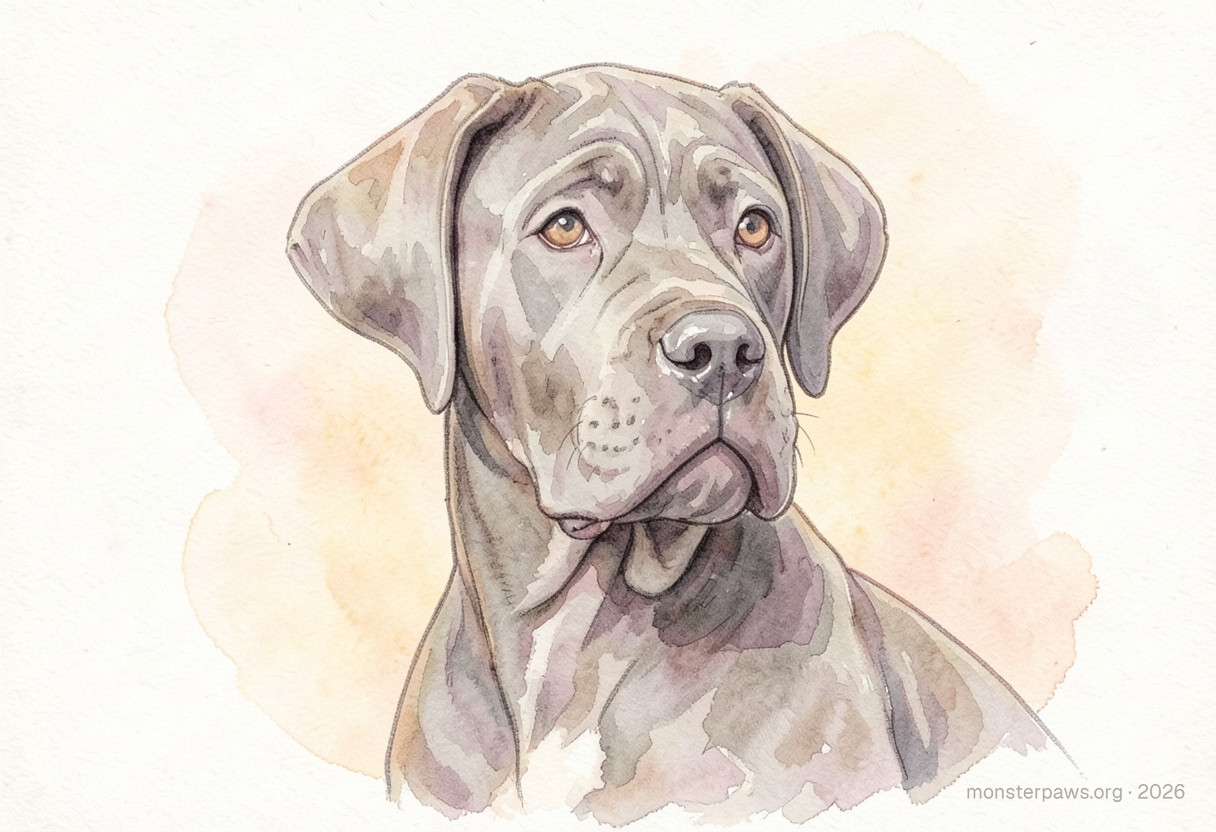
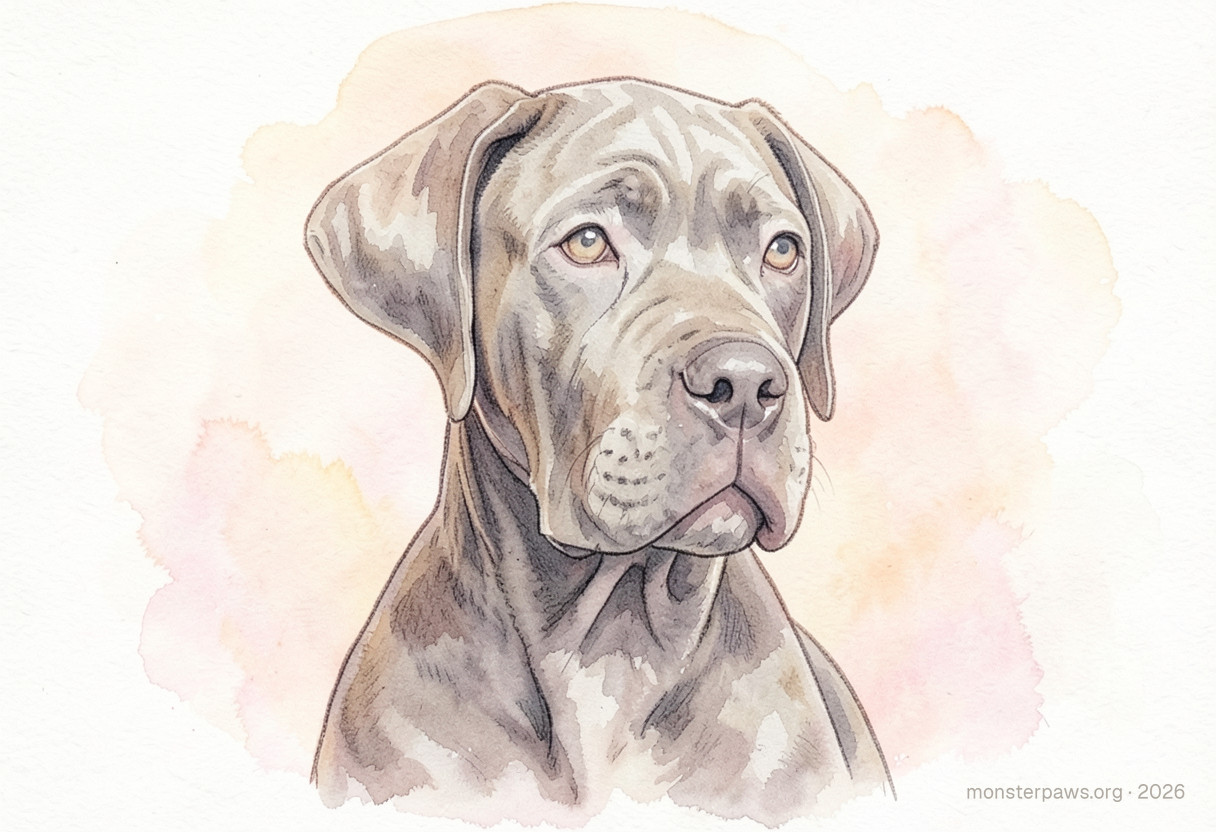
Plum's crew painting is replaced with Logan's new pick, batch 38g, 011, made without the photo that was withdrawn (ADR-0004 as amended 2026-11-03). klein-v1 as painted, three-quarter view, collarless, 1216×832; re-encoded from pixels alone to public/brand/crew/plum-painting.jpg, with the mark alread

diff --git a/doc/roadmap.md b/doc/roadmap.md
@@ -21,7 +21,7 @@ slice or change build order.
 | **The anatomy LoRA** | 9, pulled forward (ADR-0004 as amended 2026-10-22) | The Qwen-Image-Edit cleanup ran 2026-10-23 (`scripts/gpu-rental.sh`) and is rejected: it restyles the brushwork. NAG on klein-v1 ruled out the same day (batches 12a–12b: anatomy on all 48 at every strength — the references, not the words, carry it). klein Base repainting a LaMa'd groin ellipse (12c) regrew 11 of 12; reading the LaMa'd painting as a reference (12d) regrew none, but every groin is blurry — LaMa erases the painter's lines and nothing draws them back (Logan). RTMPose keypoints (12e) place joints well standing, but a hip-and-knee hull is the thigh, not the groin. Continuing the lines automatically (12f) fails both ways tried: joining ink ends crosses unrelated strokes, and interpolating SAM's silhouette punches paper into the hole. Erasing only the anatomy (a polygon traced by eye, or SAM given points on it) with the lines it cut drawn back, then 12d's repaint (12g): clean on three of six, close on two, Beetle sitting weakest. Logan's picks (2026-10-26): Plum and Beetle from 12g, Ducky from 12h with her missing line inked after the repaint (`comfyui/groinink.py`) — the crew's dogs are done and on the home page. Next: the LoRA's set — Commons dogs across breeds, coats and poses (standing, sitting, lying; side, three-quarter, front), each licence recorded, painted by klein-v1, the anatomy traced out and inked back by the same hand step, Logan checking each sheet; a checker bake-off (a local VLM against the Claude API on the paintings only, scored against Logan's 12c–12h verdicts) to sort the set first; the training set's licences decided in an ADR before hundreds are pulled. **ADR-0031** accepted 2026-10-27 (Commons only, a shelter's own Commons release included; CC0, public domain, CC BY and CC BY-SA by the API's own licence field; the committed TSV as the credits file), with `comfyui/commons_fetch.py` (`npm run explore:fetch`: fetch, backfill, verify — the fetch writes both records; the local record backfilled the same day) and the bake-off design in `doc/plans/base-model-candidates.md` (Logan's anatomy labels on ~130 paintings first, then OWLv2 as the free baseline, Claude Opus 5.5 and Haiku 5.5 once `anthropic/api-key` is in `pass`, local VLMs last). Collected 2026-10-27 through the tool: 107 dogs in `lora-train` and 12 in `lora-holdout` (the collection record is in the plan). Painted the same day as batches 13a–13d (242 paintings of all 121 dogs, two seeds, klein-v1 exactly; first read in the plan). The anatomy label sheet is built (`var/explore/checker/labels-*.jpg`, 128 paintings of 9b–12h, Claude's reading pre-filled in `var/explore/anatomy-labels.tsv`). The bake-off is dropped (Logan, 2026-10-28). Logan kept 116 training paintings, Claude marked them and Logan checked the marks: 80 to clean, 36 clean (2026-10-28). The hand step cleaned the 80 (batches 15a, 16a) and Logan passed 41: the approved set is 77 paintings of 56 dogs (2026-10-29, `var/explore/index-all/training-set-2026-10-29.tsv`). A second pass on the 39 (batch 16b, the whole form erased, denoise 1.0) passed 20 more — 16 of 22 standing, 4 of 17 sitting or lying, which blended into the ground (Logan): the set is 97 paintings of 68 dogs (`var/explore/index-all/training-set-2026-10-29b.tsv`). The 97 pairs are built (`npm run explore:pairs`, `var/explore/pairs/anatomy-2026-10-29/`) and `scripts/gpu-rental.sh train` runs ai-toolkit at a pinned commit on the weights in `comfyui/models-training.manifest` (the job in the plan). Trained 2026-10-29 on an H200 (about an hour, about $4.40; 8 checkpoints in `var/explore/lora/anatomy-2026-10-29/`, the look holding in the trainer's samples; Logan passed all four holdout dogs at step 2000 only, both standing dogs failing without the LoRA). Checkpoints 1000, 1500 and 2000 are in the private `monsterpaws-models` bucket (ADR-0004 as amended 2026-10-29, oplog 0011), read back through `models.py`'s signed fetch. The before/after test ran as batches 17a–17d (checkpoints 1000, 1250, 1500 and 2000 at strengths 0.6, 0.8 and 1.0 on the 48 before paintings, 576 afters; 1250 and 1750 to the bucket by oplog 0014; the checkpoints through `comfyui/models-candidates.manifest`, never `models.manifest`, until one is chosen). Logan's read of the grid (2026-10-30): 78 of 576 acceptable, the best 1500 at 1.0 with 13 of 48 (11 of 24 standing, 2 of 24 sitting) — sitting fails at every setting; against 1 of 48 befores with no genitalia, the LoRA works where the set is strong, but no checkpoint ships yet. Next: run 2's sitting half, painted clean rather than erased (Logan, 2026-10-30) — batches 18a–18b, 174 more sitting paintings of the 29 sitting dogs he kept, and 19a–19b, ten more each of the 19 short-coated sitting dogs (Logan, 2026-10-31: long hair hides the belly, short hair leaves it bare, so the clean sitting paintings missing are short-coated), his keeps joining the set; painted clean did not work for the short-coated dogs (Logan, 2026-10-31), so their paintings went through the hand step after all (batch 20a, 44 of his 115 picks acceptable, Logan 2026-11-01); with his 27 keeps from 18a–18b the set for the second run is 168 paintings of 75 dogs, 105 of them sitting, and the second training run trained on it (2026-11-01, 3,000 steps at Logan's word, about $6.30, `var/explore/lora/anatomy-2026-11-01b/`); the home test painted the 48 befores again at its checkpoints 1500, 2000, 2500 and 3000, strength 1.0 (batch 21a, 192 afters, no kill, 2026-11-02; the four in the bucket by oplog 0015) ; Logan's read of its samples: 30 of 52, no checkpoint standing out (2026-11-02) ; his read of the grid (2026-11-02): 67 of 192, the best 3000 at 1.0 with 22 of 48 (15 standing, 7 sitting) against run 1's best of 13 (11, 2), Beetle from 1 to 8 — better everywhere, but more than half still fail, so no checkpoint ships yet; checkpoint 3000 painted again at strengths 1.25 and 1.5 (batch 22a, 96 afters, no kill, 2026-11-02) — then Logan moved off the LoRA (2026-11-02): the likeness and sharpness it costs are not worth it, and klein-v1's own paintings look best. Next: keeping genitals out without it — every dog painted lying in a "down" (never on its side), another pose or something in the picture that hides them, or finding the area and repainting it as the tripod step does (Logan's three, in the plan); the first two tried as prompts on klein-v1 (batch 23a: two downs and a head-and-shoulders portrait on Plum, Ducky and Beetle, 72 paintings, no kill, 2026-11-02) ; Logan's read (2026-11-02): the sphinx terrible, the three-quarter down acceptable only on Beetle, Plum and Ducky still with strange genitals or feet, and some downs with three hind legs or two rumps; the head-and-shoulders portraits mostly fine (one Beetle too broad in the shoulders), and Logan leaning to the portrait for v1. Correct anatomy on a male is fine, sheath or not; only male anatomy on a female is out (Logan, 2026-11-02) — so a female sitting with her nipples named was painted next (batch 25a, 32 on Ducky and Beetle, no kill); Logan's read (2026-11-02): "very interesting test but neither will work", so no full body for a female, and a full body beside the portrait could only be a male's. Next, Logan's call on the v1 way: the portrait for every animal (Claude's recommendation), checked first on the twelve held-out Commons dogs, then the likeness harness and the ADR-0004 amendment. One more brainstorm (Logan, 2026-11-02): a male in any pose, a female only sitting or lying down; so painted next on Ducky and Beetle a down from a grey silhouette, as a reference or the starting image (batches 26a–26b), and a sit seen from above or behind a sign with her name (26c), 80, no kill. Logan: the sign is the way; every animal gets two portraits and two full bodies with a sign bearing its name, a male in any pose, a female sitting (2026-11-02) — so the crew's sets were painted next (batches 27a–27b, 56, no kill, Plum also sitting behind the sign to see whether one recipe serves both); then eight a donation: four seeds, each painting one portrait and one full body with the sign (Logan, 2026-11-02); Logan's read (2026-11-02): portraits 22 of 24; the sign's full body a female's 4 of 16, Plum's 5 of 8 sitting and 2 of 8 standing; the name right 31 of 32; and the acceptable signs fall on the same seeds (23 and 1001) on all three dogs — so whether a seed carries its layout to dogs it has never painted (batch 28a: the ten held-out Commons dogs at seeds 23 and 1001, with 314 and 777 as the control, a set of eight each; 80, no kill, `var/explore/index-all/seeds-28.html`). Logan's read (2026-11-02): the seed matters — signs 14 of 20 at 23 and 1001 against 8 of 20 at the control, seed 23 11 of 13 dogs in all — but even 23 misses one dog in seven; portraits 33 of 40; names 28 of 40, Daisy and Emily misspelled at every seed. So a search for more seeds like 23: the sign at sixteen new seeds on the six dogs that failed somewhere (batches 29a–29b, 96, no kill, `var/explore/index-all/seed-search-29.html`), Logan's read: seed 1111 passed all six dogs, 101, 333, 3000 and 5555 five, three seeds none; Ducky and Beetle 8 and 9 of 16 — the seed is most of the difference. Those five go to dogs they never painted, on the blank sign lettered. And the name lettered by us (Logan, 2026-11-02): the sign painted blank (batches 30a–30b, seeds 23 and 1001 on the thirteen dogs) and the name set on its board by `comfyui/signname.py` (OWLv2 finds the sign, SAM 2.1 the board, Caveat warped onto it): 26 boards painted blank and lettered, `var/explore/index-all/lettered-30.html`; the type too printed (Logan), so the name is now carved into the board, in three strengths on `var/explore/index-all/lettering-style-30.html`; Logan's pick, carved (8 of 8). Then the search's five and seed 23 confirmed on fourteen dogs they never painted, on the blank sign carved (batches 31a–31b, 84, no kill, `var/explore/index-all/seeds-confirm-31.html`). Logan's read: 42 of 84; the seeds fell back toward half (3000 10 of 14, 1111 9, 333 7, 23 6); the best four 32 of 56 — seeds lift the sign from about 40% to 60%, not to never; the name right 81 of 84; Coco's and Duke's misses mostly likeness (the breed word paints a Doberman's ears pointed). So the dog facing the viewer behind a wider sign, at those four seeds on the same fourteen (batches 32a–32b, 56, no kill, `var/explore/index-all/front-32.html`): the boards came out far bigger, the dog often only a head and paws, and in several the board stood behind the dog. Logan: "no this wont work at all" (2026-11-02). So the portrait carrying the name, a small blank board below the chest or hung around the neck, carved after (batches 33a–33b, 128 on the crew and thirteen Commons dogs); a portrait needs no cover for any species, where a full body would for each (Logan: "i forgot about horses and pigs"). Beside it, the board portrait's prompt upsampled once by hand, as the klein demo upsamples by default (batches 34a–34b, 64). Both lettered with the crew's mark, `monsterpaws.org · <year>`, which every gift painting carries (Logan, 2026-11-02; ADR-0022's open question): `var/explore/index-all/name-portraits-33.html`, `var/explore/index-all/dense-34.html`. Logan doubts the board too (2026-11-03): listing names are often notes as well ("Hopper - (Courtesy Post) - Adopt Me!"; 2% of the corpus over 30 characters), and a painted name is frozen while the record changes, so the name may live in the card's caption instead, or a share card's frame drawn from the record when it is shared (Logan's frames, 2026-11-03). So the plain portrait, short prompt against the long one without its board, at eight seeds, four of them new (batches 35a–35b, 256, each marked by `comfyui/mark.py`; blind page `var/explore/index-all/portraits-35.html`). Logan's blind read (2026-11-03): the short prompt 95 of 104 acceptable against the long one's 44, the better in 91 pairs to 7, so the upsampled prompt is out; the short portrait passes at nearly every seed (seven of eight at 12 or 13 of 13) and fails by the dog: Bailey 1 of 8, Max and Duke none of 16 ("the german shepards colors were wrong and the dobermans ears were wrong"), klein's idea of the breed over the photo; and many carry an unneeded ink line under the chest (Logan). So a soft lower edge in the prompt (batches 36a–36b, 112) and photo-true words for Max and Duke, with and without the breed's name (batch 36c, 32), on one blind page, `var/explore/index-all/portraits-36.html`. Settled by Logan 2026-11-03 ("we are going to do portraits because we can't guarantee a clean body"; "yeah that all sounds right to me"): ADR-0004 as amended 2026-11-03, four chest-up portraits a donation, the LoRA dropped, a tripod no longer painted standing. The cats painted as portraits for the site's crew section (batch 37a), the crew's pick on `var/explore/index-all/crew-portraits-37.html`. Logan's read of batch 36 (2026-11-03): the soft edge out (better 23 pairs to the short's 68); words from the photo fix the breed, Max 0 → 7 of 8 and Duke 0 → 8 of 8 with the breed's name kept, so a local photo reader is worth building; collars painted half into the fur fail (Plum 0 of 8). No lines (Logan). Collarless (Logan: "no i want to collarless"): Plum painted without a collar for the site (batches 38a, 38c) and the five collared Commons dogs collarless (38b). Shoulders too wide on every dog, Plum most ("a puppy head on a human body"), likely the human bust's words "head-and-shoulders": two framings without them on all sixteen (38d–38f) A horse LoRA follows the dog one (Logan, 2026-10-23): horses are rare in the corpus (71 listings) but show a sheath | Logan: the crew's pick for the site; the reads of the collar (38b) and the shoulders (38d–38f); the name in the painting, in the caption, or nowhere |
 | **Shelter consent** | 5 | Building ADR-0029 (accepted 2026-10-27; plan `doc/plans/adr-0029-outreach-build-plan.md`). **Phase 1 built 2026-10-27**: `SHELTER_EXCLUSIONS` inside `visibleAnimals` (browse, detail, Surprise me and the shelter view all close), `outreach_events` with one send per shelter per wave held by the database (`drizzle/0012`), the `MailTransport` over Mailpit (`docker-compose.dev.yml`, CI) and Gmail, the IRS BMF EIN matcher on a hand-made fixture. **Phase 2 built 2026-10-27**: the wave list from the visible set (`selectWave`, Chicagoland = 50 mi of 60614, ≤200, the already-approached dropped) and the Every.org lookup by EIN — the claim is its `hasAdmin`, kept as a named tri-state in `shelter_nonprofits.everyorg_claim` (`drizzle/0013`), where the Sponsor button will read it (ADR-0002 as amended 2026-10-26). **Phase 3 built 2026-10-27**: the address finder (the shelter's own site, robots.txt kept, one request a second, an honest user agent; candidates and Logan's confirmation in `shelter_contacts`, `drizzle/0014`) and the ask itself (`renderAsk`, every clause a test — the third-party AI disclosure and the rights question, the retention term, the claim line only when not claimed, the hackathon as timing and an input, "remove"); the lawyer's read of the rendered ask was later dropped (Logan, 2026-10-27). **Phase 4 built 2026-10-27**: the send guard (`sendWave` over `judgeSend`, `src/core/outreach/send.ts`) — at most 40 in any rolling 24 hours, a minute apart, one per shelter per wave, one follow-up seven days after the first message and never a third, only to an address Logan confirmed, never to an excluded or opted-out shelter, the `sent` row written only after the transport answered; the Gmail pair named in infra.md's `pass` table and not yet made. **Phase 5 built 2026-10-27**: `npm run outreach -- list | prepare | match | find-emails | preview | send | record | status` — `prepare` walks a wave through the match and the address in one sitting (added 2026-10-27 at Logan's ask); `send` rehearses the whole wave through the real guard into Mailpit and rolls the record back; `--live` needs the Gmail pair, a terminal and the wave's name typed back, and is refused while the previous wave bounced over 5% or holds a complaint unless `--override <note>` is recorded on every send; the opt-out's evidence line comes from `record --eml` (ADR-0029 as amended 2026-10-27). Run on the dev database: 33 shelters in `chicagoland-1`, none with a confirmed address yet. **Phase 6 built 2026-10-27**: the flow in `doc/flows.md`, infra.md's custody and pass rows, `npm run outreach` in CLAUDE.md — the ADR-0029 build plan is complete. **The hand work is done (Logan, 2026-10-27)**: 31 of the 33 matched to an EIN and an Every.org record — **every one of the 31 is unclaimed** — and 32 have a confirmed address (Project Hope Animal has none; the two municipal shelters, Aurora Animal Care and Control and Kane County Animal Control, have no IRS row and so no match). The rehearsal sends 32 and refuses 1. Logan's read of the rendered ask in Mailpit is the read (no lawyer, ADR-0029 as amended); the Gmail pair is in `pass` and the login verified. **The first live slice went 2026-10-28, 09:14–09:26 CT: 13 shelters, one a minute, as loganbbres@gmail.com; `db:dump` taken after.** The remaining 17 went 2026-10-29, the two municipal shelters held out with `--skip` (Every.org can never pay a city department, so the ask does not fit them; their Friends-of charities are a later wave): 30 sent, no bounce, only auto-replies so far. **`illinois-2` (`--states IL`) prepared 2026-10-30**, held out with `--skip`: six government shelters (Aurora, Kane, Macon, McLean, Peoria, St. Clair) and two whose IRS exemption was auto-revoked in 2026 (CATSNAP, Perry County Humane Society — the BMF drops a revoked body, so the matcher cannot find them). **`illinois-2` went 2026-10-30 as loganbbres@gmail.com: 16 sent, 2 refused for no confirmed address** (Project Hope Animal, which has none, and Kat & Kritters Foundation, Hinckley — matched to its EIN, its site a form only); `db:dump` taken after. 46 shelters written to across the two waves. Next: replies and bounces, recorded with `record`. The live confirmation counted every shelter not skipped ("18" for 16 sent); it says "up to N" since 2026-10-30. Carry-in (2026-10-30): the matcher ranks a government shelter's name against unrelated bodies sharing its generic words (Islamic Center of McLean County first for McLean County Animal Control) — weighting rare words, and a note in `prepare` naming a likely government shelter, wait until after this wave; whether a government shelter's animals may send donations to its Friends-of charity needs an ADR-0029 amendment first. Outside the waves, by referral (Logan's contact, 2026-10-29): **Cherryland Humane Society**, Traverse City MI (EIN 38-1603061, Every.org unclaimed) — none of its animals are here, since it lists through PetPoint, not RescueGroups, so the ask does not fit and Logan wrote to them himself, through the contact form on their site (2026-10-29; a form keeps no copy in Gmail, so their reply by email is the first written record); ADR-0034 (proposed) is how we would read their PetPoint feed if they say yes, and nothing is built unless their answer calls for it. Carry-in (Logan, 2026-10-27): **not one Chicagoland shelter has claimed its Every.org profile, and most take donations by a PayPal button on their own site** — so until a shelter claims, no Sponsor button can show for it (ADR-0002 as amended 2026-10-26), and the claim line in the ask is doing real work; a shelter's own PayPal is not a rail that reaches our webhook, so no keepsake can open on it (ADR-0027). Nothing is sent to a shelter until Logan says so. ADR-0028's happy path: draft the ask today and send it to every Chicago-area shelter — photos the shelter sends us directly, with permission to display and paint them (display + digify, first-party tier, ADR-0006 decision 6), each yes recorded in the registry; the lawyer's read of the formal three-grant letter follows the first yes Carry-in (Logan, 2026-10-26): **Every.org takes a card donation only for a nonprofit that has claimed its profile** — Border Tails Rescue (Northbrook, Plum's rescue) is unclaimed, and its page offers donors only a grant from an Every.org donor-advised fund, so the ask includes claiming the shelter's free Every.org profile, and the Sponsor button shows only for a shelter that has (ADR-0002 as amended 2026-10-26). The donation minimum is unconfirmed: one nonprofit reports $10 (bevy.org), Every.org's docs publish none; Logan wants $1 if it works. Open question: Shelterluv's own donation tools (a per-account Donation Boost link, text-to-donate) as a second rail for a shelter that has not claimed Every.org; the same question for the PayPal buttons most Chicagoland shelters use (none of 31 had claimed Every.org, 2026-10-27); whether its API exposes donations is unknown — its specs sit behind Shelterluv's developer login, granted per shelter (DIRECTION.md, Shelterluv integration facts) — and without a confirmation a donation cannot open a keepsake (ADR-0027). | Shelters' replies; decision point 2026-10-30 |
 | **Meet the crew** | 3c, the home section | Built 2026-10-26 on the home page: each pet's painting (Logan's picks; chest-up portraits since 2026-11-03, ADR-0004 as amended, "because we can't guarantee a clean body": `doc/consent/0001-the-crew.md`) beside a real photo cropped square on the pet both opening whole in a dialog (`src/ui/lightbox.tsx`), right under the hero's two buttons ("See adoptable animals", and "See a demo": `/demo`, the real pages walked with the crew — browse, listing, the sponsor page, a checkout placeholder, thanks, and a pretend sponsor history that ends when the painting arrives (ADR-0028 as amended 2026-10-26, later, 2026-11-03 and 2026-11-04: updates and adoption day left the demo and the home page's promise, and ADR-0037: the painting is our thank-you; its sponsor, thanks and collection pages are the first design of the donate loop, ADR-0027 as amended) — and below the crew "How it works, with Ducky" in four cards; every page says it is a demo), labelled the founders' pets and not up for adoption; files under `public/brand/crew/` re-encoded from pixels alone (no EXIF, GPS or ComfyUI workflow text; `tests/crew-assets.test.ts`), consent in `doc/consent/0001-the-crew.md`. Next: ship it with the browse-first launch | The launch (3b) |
-| **Share page** | ADR-0036 | Built 2026-11-03: `/share/<token>` opens from the painting email, the four paintings with Save and Share, one URL per painting for its card, no login, no cookie, nothing about the donor, real paintings by keepsake (Logan: "yes real paintings on the share page is what we want"; `npm run share -- publish <keepsake-id> | takedown <token> | takedown --shelter <slug>`). Ships in oplog 0025; the first real publish is oplog 0026. Carry-ins: a real phone proves the share sheet offers Instagram and TikTok; `/deploy`'s `docker run` gains `SHARE_BASE_URL` so `e2e/share.spec.ts` runs on the image; before any real donor's page, a `/privacy` line (donate's), and Spencer hasn't been told about public pages (ADR-0036 decision 4); before the first withdrawal, a path for a paid gift whose shelter has withdrawn, which gets painted, is never published and then can't be mailed (ADR-0036, Consequences) | Oplog 0026's dashboard steps (`monsterpaws-media` public through `media.monsterpaws.org`, Logan: "yes bucket okay"), his key, and his consent line |
+| **Share page** | ADR-0036 | Built 2026-11-03: `/share/<token>` opens from the painting email, the four paintings with Save and Share, one URL per painting for its card, no login, no cookie, nothing about the donor, real paintings by keepsake (Logan: "yes real paintings on the share page is what we want"; `npm run share -- publish <keepsake-id> | takedown <token> | takedown --shelter <slug>`). Ships in oplog 0025; the first real publish is oplog 0026. Carry-ins: a real phone proves the share sheet offers Instagram and TikTok; `/deploy`'s `docker run` gains `SHARE_BASE_URL` so `e2e/share.spec.ts` runs on the image; before any real donor's page, a `/privacy` line (donate's), and Spencer hasn't been told about public pages (ADR-0036 decision 4); before the first withdrawal, a path for a paid gift whose shelter has withdrawn, which gets painted, is never published and then can't be mailed (ADR-0036, Consequences) | Oplog 0025's roll |
 | **Launch** | 3b | Browse-first launch RUN 2026-10-27 (`doc/oplog/0001-production-launch.md`): Managed Postgres, the animal pages (63,435 listings), the home page with the crew, `/demo`, error reporting, nightly dumps to the R2 vault — live and dogfooded by Logan. RescueGroups resets every connection from the droplet, so polls are bridged through home until the allowlist — `scripts/poll-via-bridge.sh` first, `scripts/poll-via-home.sh` the fallback (ADR-0033). RescueGroups answered 2026-10-27: their system refuses the droplet's address because two DNS blocklists carry it — Spamhaus PBL (a policy listing of cloud ranges that should not send mail directly, Spamhaus return code `.11`; its page says "for information only, no action required unless you run your own mail server", and the removal form is for mail servers, which the droplet is not, so none is requested) and UCEPROTECT Level 3 (DigitalOcean's whole AS14061; not removable per address, their Level 1 for the address itself is clean). Next: the reply to RescueGroups quoting Spamhaus's own wording and asking which lists their check consults; if they still refuse, the home bridge is the standing tool (Logan, 2026-10-27: the GPU box is on for production anyway). The faster bridge built 2026-10-28 (ADR-0033: `scripts/poll-via-bridge.sh` runs the poll on the droplet, only RescueGroups' requests leave through home via `scripts/rg-proxy.ts`), after the tunnel poll died 1 h 29 min in (oplog 0005); its first run by hand (oplog 0006) proved the bridge and ran the droplet out of heap at ~45k, because `runIngest` held the whole feed; fixed 2026-10-28 with stages 2–4 per observation (ADR-0009 as amended), an `error` listener on every pool client (oplog 0005's crash), `INGEST_POLL_SCHEDULE=off` unscheduling the droplet's doomed job, and the CLI exiting 2 on an incomplete full run so the bridge pings `/fail` (ADR-0033 as amended 2026-10-28). Deployed 2026-10-28 (oplog 0007), and the bridge poll on the new image turned health green (oplog 0008: 64,111 in 27 min). The nightly built the same night (ADR-0033 decision 7, amendment as built: `scripts/poll-nightly.sh` from a Windows task at 07:00 UTC in `monsterpaws-dev` until `monsterpaws-prod` exists, `scripts/bridge-poll-droplet.sh` as the forced command of a key that opens only the one reverse forward); set up by oplog 0009. The first unattended night completed 2026-10-29 (64,089 in 27 min), and oplog 0010 armed the poll heartbeat 499765 and the health monitor 4995794 on it. The nightly of 2026-10-30 failed at page 131 on a cut page, and its rerun lost the SSH connection at page 104 (oplog 0012). The nightly now runs the whole run up to three times, and the proxy no longer cuts a page's tail (ADR-0033 as amended 2026-10-30); `fetchPage`'s own retry and the CLI's `err.cause` go with the next deploy (`doc/issues.md`, Ops). The retry's first real use came 2026-11-02, the first nightly after Central time left daylight saving, which still started at 07:00 UTC: attempt 1 lost the SSH connection at page 204 (exit 255, 07:09 UTC) and attempt 2 completed (63,283 by 07:40). Both drops were bytes corrupted between home and the droplet (`message authentication code incorrect`, oplog 0016). Accepted (Logan, 2026-11-02): the retry recovers, and the place is hunted only if a night fails on three drops (`doc/issues.md`, Ops). Carry-ins: a restore drill and a retention rule for `pgdump/`; ufw's 2375/2376 rules; a least-privilege database role. Link previews built 2026-10-27 (ADR-0030: every page sends a card, Beetle's painting as the one image, `npm run og:image`), found missing while drafting the launch post; goes live with the next roll. Social accounts opened 2026-10-27 (ADR-0032: the LinkedIn page, X `@monsterpawsorg`, Bluesky; assets by `npm run social:assets`; posted by hand, never a listing's photo; the four profiles linked from the footer, amendment 2026-10-27); the launch post waits on the roll and a Post Inspector check | RescueGroups' allowlist
 | **Small, any time** | 4, 2 | The SDXL strip (item 4 carry-in, then `comfy:build` and `comfy:smoke`); "Recently viewed" (ADR-0025); ingest phase 9 health gates (item 2's other phases wait on item 5's fixtures) | Nothing |
 | **Home GPU watch** | — | `/gpu-health` after 2026-10-27: a week clean since the dummy plug closes the flicker and crash entries in `doc/issues.md` | Time |

diff --git a/doc/issues.md b/doc/issues.md
@@ -371,6 +371,11 @@ is the record, and a file of ticked boxes stops being read.
 
 ## Compliance
 
+- **An older version of a crew photo stays in this repo's history.** A detail in it was blurred from the live
+  files in `ec81e6c`, and removing the old version means rewriting history, which is Logan's call. Logan: "yeah
+  i'll deal with the image later", which we read as this. The source photo also reached Meta's Model API.
+  Logan, 2026-11-04: "Its fine all the personal info is just mine for all photos". Found 2026-11-04.
+
 - **1,404 animals (2.2%) render their organization's name with no link home** —
   the source publishes no usable URL for them, and we never assemble one
   (ADR-0015 as amended). Under the terms' link-back promise this is the honest

diff --git a/doc/consent/0001-the-crew.md b/doc/consent/0001-the-crew.md
@@ -35,7 +35,7 @@
 
 | Pet | Painting (Logan's pick) | Made by |
 | --- | --- | --- |
-| Plum | batch 38d, 015 | klein-v1, as painted: three-quarter view, collarless words |
+| Plum | batch 38g, 011 | klein-v1, as painted: three-quarter view, collarless words |
 | Marty | batch 37a, 004 | klein-v1, as painted: colour reworded as batch 11b |
 | Beetle | batch 35a, 039 | klein-v1, as painted |
 | Stacey | batch 37a, 020 | klein-v1, as painted |
